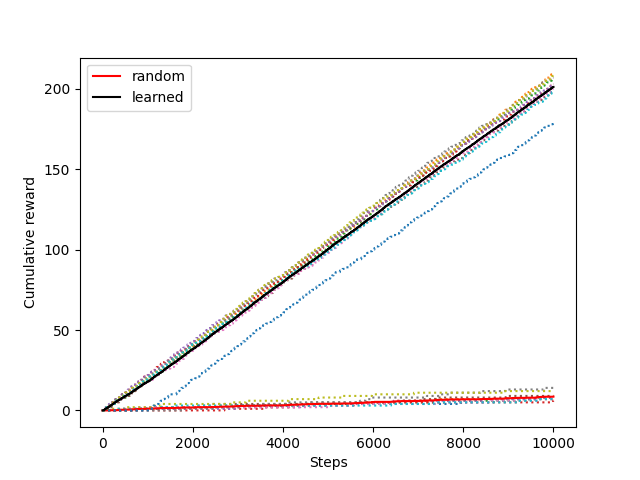
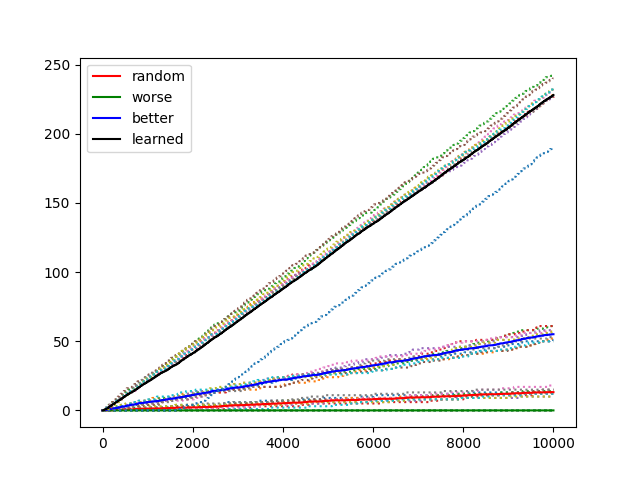
Changed q4 to stochastic policy with reward and added graph for q4, q5

diff --git a/rl_1/agent.py b/rl_1/agent.py
@@ -15,35 +15,39 @@ def manual_agent():
     print("Game Won!!")
 
 
-def non_learning_agent(policy):
+def non_learning_agent(policy, new_goal=None):
     i = 0
     rewards_trails = []
+    reward_loc = None
     while i < 10:
         steps = 0
         reward = []
         reward_sum = 0
         four_rooms = Environment()
+        if new_goal:
+            four_rooms.target = new_goal
         state = four_rooms.grid
         while steps < 10000:
-            action = policy.get_action(state, four_rooms.current)
+            action = policy.get_action(state, four_rooms.current, reward_loc)
             state, r = four_rooms.simulate(action)
             steps += 1
             reward_sum += r
             reward.append(reward_sum)
             if r == 1:
-                print(f"game won! in step no {steps}")
+                # print(f"game won! in step no {steps}")
+                reward_loc = four_rooms.current
                 four_rooms.reset_game()
-            if steps % 1000 == 0:
-                print(f'Steps finished {steps}/10000')
+            # if steps % 1000 == 0:
+            # print(f'Steps finished {steps}/10000')
         rewards_trails.append(reward)
-        print(f"Trial {i + 1}/10 done")
+        # print(f"Trial {i + 1}/10 done")
         i += 1
 
     rewards_trails = np.array(rewards_trails)
     return rewards_trails
 
 
-def learning_agent():
+def learning_agent(goal):
     policy = LearningPolicy()
     i = 0
     rewards_trails = []
@@ -52,6 +56,7 @@ def learning_agent():
         reward = []
         reward_sum = 0
         four_rooms = Environment()
+        four_rooms.target = goal
         state = four_rooms.grid
         while steps < 10000:
             action = policy.get_action(state, four_rooms.current)
@@ -76,6 +81,14 @@ def learning_agent():
     return rewards_trails
 
 
+def get_random_goal():
+    env = Environment()
+    goal = tuple(np.random.randint(0, 10, [2]))
+    while not (0 <= goal[0] < env.grid.shape[0] and 0 <= goal[1] < env.grid.shape[1] and env.grid[goal] != -1):
+        goal = tuple(np.random.randint(0, 10, [2]))
+    return goal
+
+
 def plot(rewards_trails, color):
     for count in range(10):
         plt.plot(np.arange(10000), rewards_trails[count], linestyle='dotted')
@@ -84,19 +97,29 @@ def plot(rewards_trails, color):
 
 
 # manual_agent()
-random_policy_rewards = non_learning_agent(RandomPolicy())
+# random_policy_rewards = non_learning_agent(RandomPolicy())
 # worse_policy_rewards = non_learning_agent(WorsePolicy())
 # better_policy_rewards = non_learning_agent(BetterThanRandomPolicy())
-line1 = plot(random_policy_rewards, 'red')
+# line1 = plot(random_policy_rewards, 'red')
 # line2 = plot(worse_policy_rewards, 'green')
 # line3 = plot(better_policy_rewards, 'blue')
-plt.ylabel("Cumulative reward")
-plt.xlabel("Steps")
+# plt.ylabel("Cumulative reward")
+# plt.xlabel("Steps")
 # plt.legend([line1, line2, line3], ['random', 'worse', 'better'])
 # plt.savefig('qt4.png')
 # plt.show()
-learned_policy_rewards = learning_agent()
+
+random_goal = get_random_goal()
+print(f"New goal is {random_goal}")
+random_policy_rewards = non_learning_agent(RandomPolicy(), random_goal)
+worse_policy_rewards = non_learning_agent(WorsePolicy(), random_goal)
+better_policy_rewards = non_learning_agent(BetterThanRandomPolicy(), random_goal)
+learned_policy_rewards = learning_agent(random_goal)
+
+line1 = plot(random_policy_rewards, 'red')
+line2 = plot(worse_policy_rewards, 'green')
+line3 = plot(better_policy_rewards, 'blue')
 line4 = plot(learned_policy_rewards, 'black')
-plt.legend([line1, line4], ['random', 'learned'])
+plt.legend([line1, line2, line3, line4], ['random', 'worse', 'better', 'learned'])
 plt.savefig('qt5.png')
 plt.show()

diff --git a/rl_1/policy.py b/rl_1/policy.py
@@ -40,6 +40,8 @@ class Policy:
             while node != start:
                 self.state_action_map[path[node][0]] = path[node][1]
                 node = path[node][0]
+            if start not in self.state_action_map:
+                return random.choice(list(self.action_dict.values()))
             return self.state_action_map[start]
 
 
@@ -61,50 +63,36 @@ class RandomPolicy(Policy):
 class WorsePolicy(Policy):
 
     def get_action(self, state, *args):
-        return self.action_dict['r']
+        return self.action_dict['l']
 
 
 class BetterThanRandomPolicy(Policy):
 
     def get_action(self, state, *args):
         start = args[0]
-        if start in self.state_action_map:  # A type of memoization to avoid redundant calculation
-            return self.action_dict[self.state_action_map[start]]
+        reward_loc = args[1]
+        # if start in self.state_action_map:  # A type of memoization to avoid redundant calculation
+        #     return self.action_dict[self.state_action_map[start]]
+        #
+        # return self.action_dict[self._dfs(state, self.goal, start)]
+        return self.__stochastic_policy(start, reward_loc)
 
-        return self.action_dict[self._dfs(state, (0, 10), start)]
+    def __stochastic_policy(self, current, reward_loc=None):
+        if reward_loc:
+            weights = [0.25] * 4
+            if reward_loc[0] > current[0]:
+                weights[1] = 0.7
+            else:
+                weights[0] = 0.7
 
-    # def __dfs(self, state, goal, start):
-    #     def add_neighbours(og_position):
-    #         neighbours = [((og_position[0] + 1, og_position[1]), 'd'),
-    #                       ((og_position[0] - 1, og_position[1]), 'u'),
-    #                       ((og_position[0], og_position[1] + 1), 'r'),
-    #                       ((og_position[0], og_position[1] - 1), 'l')]
-    #         np.random.shuffle(neighbours)  # To get new paths at each trial
-    #         for neighbour in neighbours:
-    #             coordinate, action = neighbour
-    #             if 0 <= coordinate[0] < 11 and 0 <= coordinate[1] < 11 and state[coordinate] != -1 \
-    #                     and visited[coordinate] == 0:
-    #                 stack.append(neighbour)
-    #                 path[coordinate] = (og_position, action)
-    #
-    #     stack = [(start, 'o')]
-    #     path = {}
-    #     visited = np.zeros((11, 11))
-    #     goal_found = False
-    #     while stack:
-    #         top = stack.pop()
-    #         pos, _ = top
-    #         if pos == goal:
-    #             goal_found = True
-    #             break
-    #         visited[pos] = 1
-    #         add_neighbours(pos)
-    #     if goal_found:
-    #         node = goal
-    #         while node != start:
-    #             self.state_action_map[path[node][0]] = path[node][1]
-    #             node = path[node][0]
-    #         return self.state_action_map[start]
+            if reward_loc[1] > current[1]:
+                weights[2] = 0.7
+            else:
+                weights[3] = 0.7
+            act = random.choices(list(self.action_dict.values()), weights)[0]
+            return act
+        else:
+            return random.choice(list(self.action_dict.values()))
 
 
 class LearningPolicy(Policy):

diff --git a/rl_1/environment.py b/rl_1/environment.py
@@ -31,6 +31,7 @@ class Environment:
 
     def reset_game(self):
         self.current = self.start
+
     def __move(self, action):
         reward = 0
         action_obj = self.action_dict[action]
@@ -46,7 +47,8 @@ class Action:
         self.grid = grid
 
     def is_allowed(self, position):
-        if 0 <= position[0] < self.grid.shape[0] and 0 <= position[1] < self.grid.shape[1] and self.grid[position] != -1:
+        if 0 <= position[0] < self.grid.shape[0] and 0 <= position[1] < self.grid.shape[1] and self.grid[
+            position] != -1:
             return True
         return False
 
